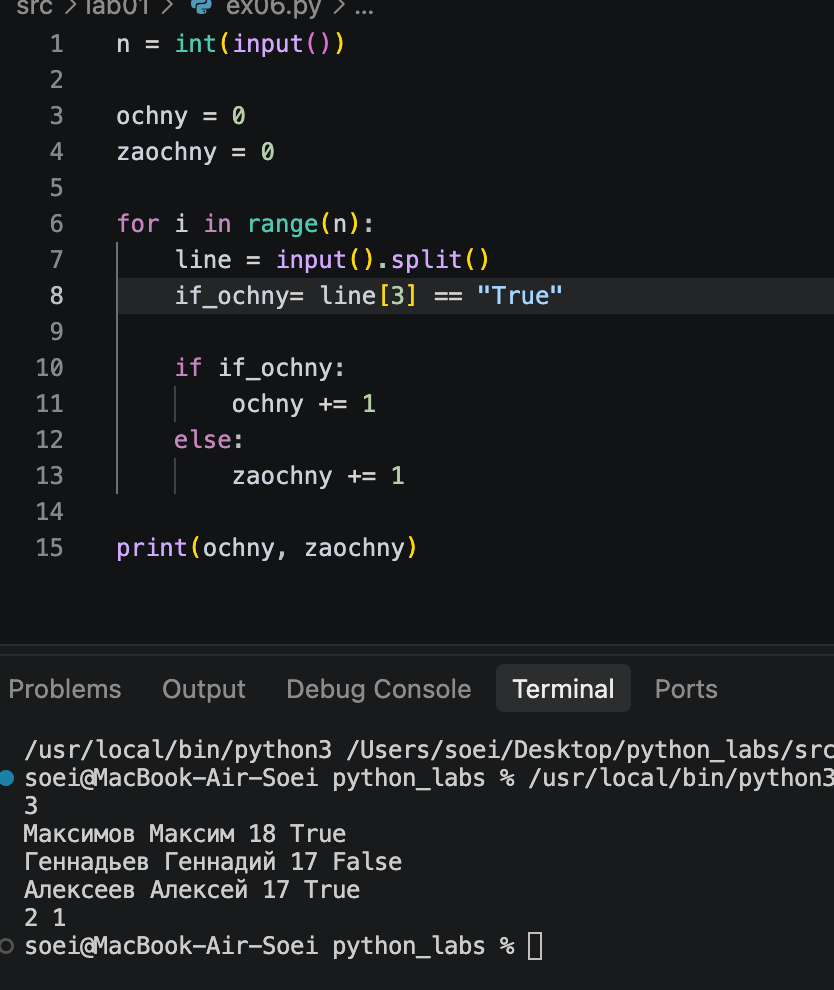
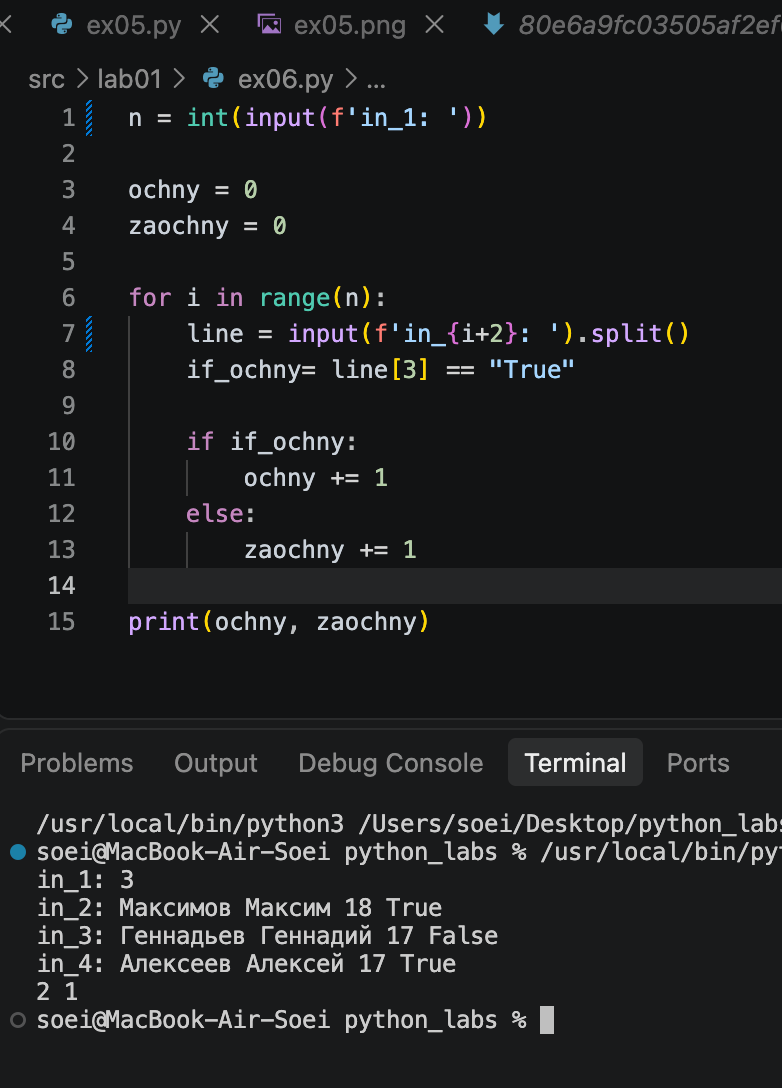
laba

diff --git a/src/lab01/ex06.py b/src/lab01/ex06.py
@@ -1,10 +1,10 @@
-n = int(input())
+n = int(input(f'in_1: '))
 
 ochny = 0   
 zaochny = 0  
 
 for i in range(n):
-    line = input().split()
+    line = input(f'in_{i+2}: ').split()
     if_ochny= line[3] == "True"
 
     if if_ochny:
